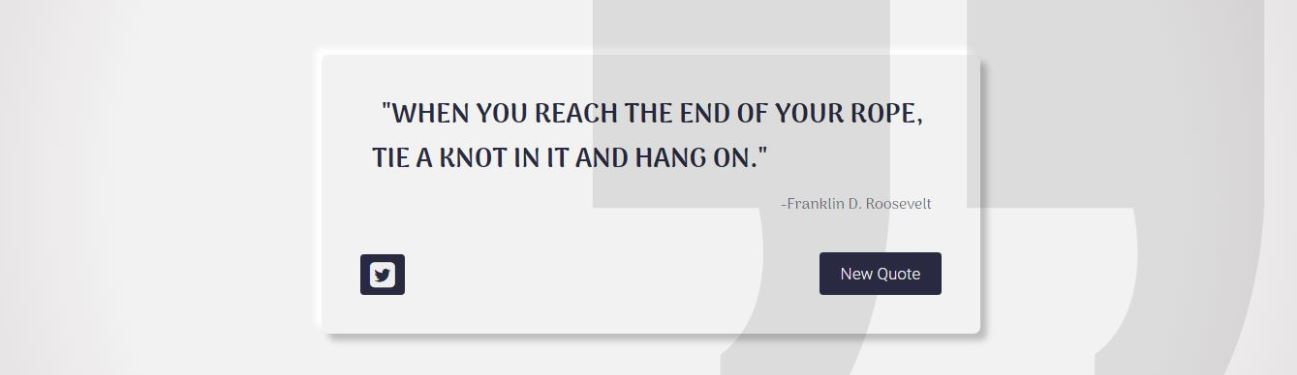
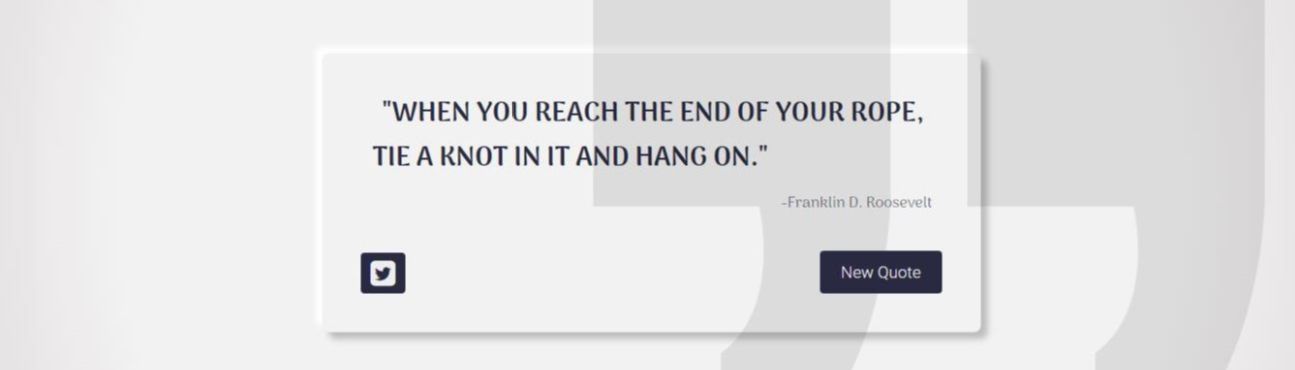
live quote to png

diff --git a/views/works.html b/views/works.html
@@ -60,7 +60,7 @@
             </div>
 
             <div class="card">
-                <img id="live-quote"  class="web-img" src="css/img/live_quote.jpg" alt="Avatar" style="width:100%" alt="live_quote">
+                <img id="live-quote"  class="web-img" src="css/img/live_quote.png" alt="Avatar" style="width:100%" alt="live_quote">
                 <div class="container">
                   <h4><strong>Live Quote App</strong></h4> 
                   <p>A simple random quote app that at a click of a button can tweet a specific quote, Made from one of the projects of freecodecamp. Created with react and redux.</p> 
